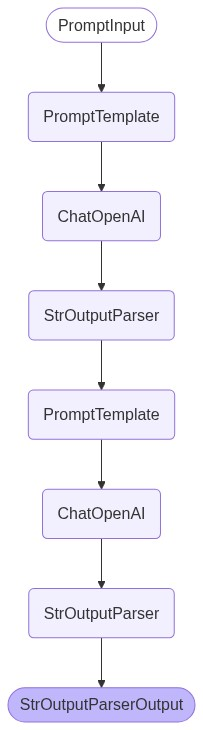
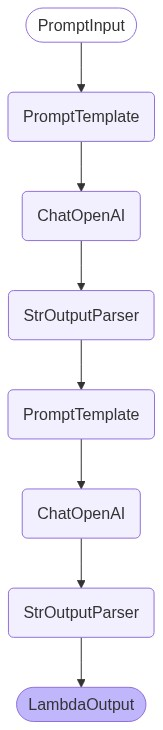
feat: better faster lighter chain

diff --git a/main.py b/main.py
@@ -1,6 +1,7 @@
 import PyPDF2
 import base64
 import requests
+from langchain_core.runnables import RunnableLambda
 
 from langchain_openai import ChatOpenAI
 from langchain.prompts import PromptTemplate
@@ -44,13 +45,10 @@ An answer key at the end
 
 Keep the questions relevant to the summary content and designed for effective review.
 
-Use the following output format when generating the output response:
-
-output format instructions:
-{format_instructions}
-
 Study material summary:
 {summary}
+
+Quiz:
 """
 
 
@@ -92,20 +90,12 @@ def draw_mermaid_graph(chain):
     url = f"https://mermaid.ink/img/{encoded}"
     url_response = requests.get(url)
 
-    if url_response.status_code == 200:
+    if url_response.status_code != 200:
+        print(f"Error fetching image: {url_response.status_code}")
+    else:
         with open("chain_workflow.png", "wb") as f:
             f.write(url_response.content)
         print("Chain workflow graph saved as chain_workflow.png")
-    else:
-        print(f"Error fetching image: {url_response.status_code}")
-
-
-class QueryResponse(BaseModel):
-    summary: str = Field(description="A concise summary of the study material in bullet-point format.")
-    quiz: str = Field(description="A set of multiple-choice questions generated from the summary, including distractors and an answer key.")
-
-
-parser = PydanticOutputParser(pydantic_object=QueryResponse)
 
 
 # Inputs
@@ -130,11 +120,7 @@ summarize_chain =(
         StrOutputParser()
 )
 
-quiz_prompt_template = PromptTemplate(
-    template=CREATE_QUIZ_PROMPT_TEMPLATE,
-    input_variables=["summary"],
-    partial_variables={"format_instructions": parser.get_format_instructions()},
-)
+quiz_prompt_template = PromptTemplate.from_template(CREATE_QUIZ_PROMPT_TEMPLATE)
 
 quiz_chain =(
         quiz_prompt_template
@@ -147,7 +133,10 @@ quiz_chain =(
 combined_chain = (
     summarize_chain
     |
-    quiz_chain
+    RunnableLambda(lambda summary: {
+        "summary": summary,
+        "quiz": quiz_chain.invoke({"summary": summary})
+    })
 )
 
 draw_mermaid_graph(combined_chain)
@@ -160,9 +149,13 @@ if __name__ == "__main__":
             "study_material": study_material
         } for topic, study_material in inputs
     ]
-    response = combined_chain.map().invoke(inputs_data)
+    responses = combined_chain.map().invoke(inputs_data)
 
     # Agent's responses
-    for (topic, _), quiz in zip(inputs, response):
+    for (topic, _), response in zip(inputs, responses):
         print("\n" + "-" * 10 + " New quiz! ✨ " + "-" * 10)
-        print("Topic: {}\n\n{}".format(topic, quiz))
+        print("Topic: {}\n\nSummary: \n{}\n\nQuiz: \n{}".format(
+            topic,
+            response["summary"],
+            response["quiz"]
+        ))
